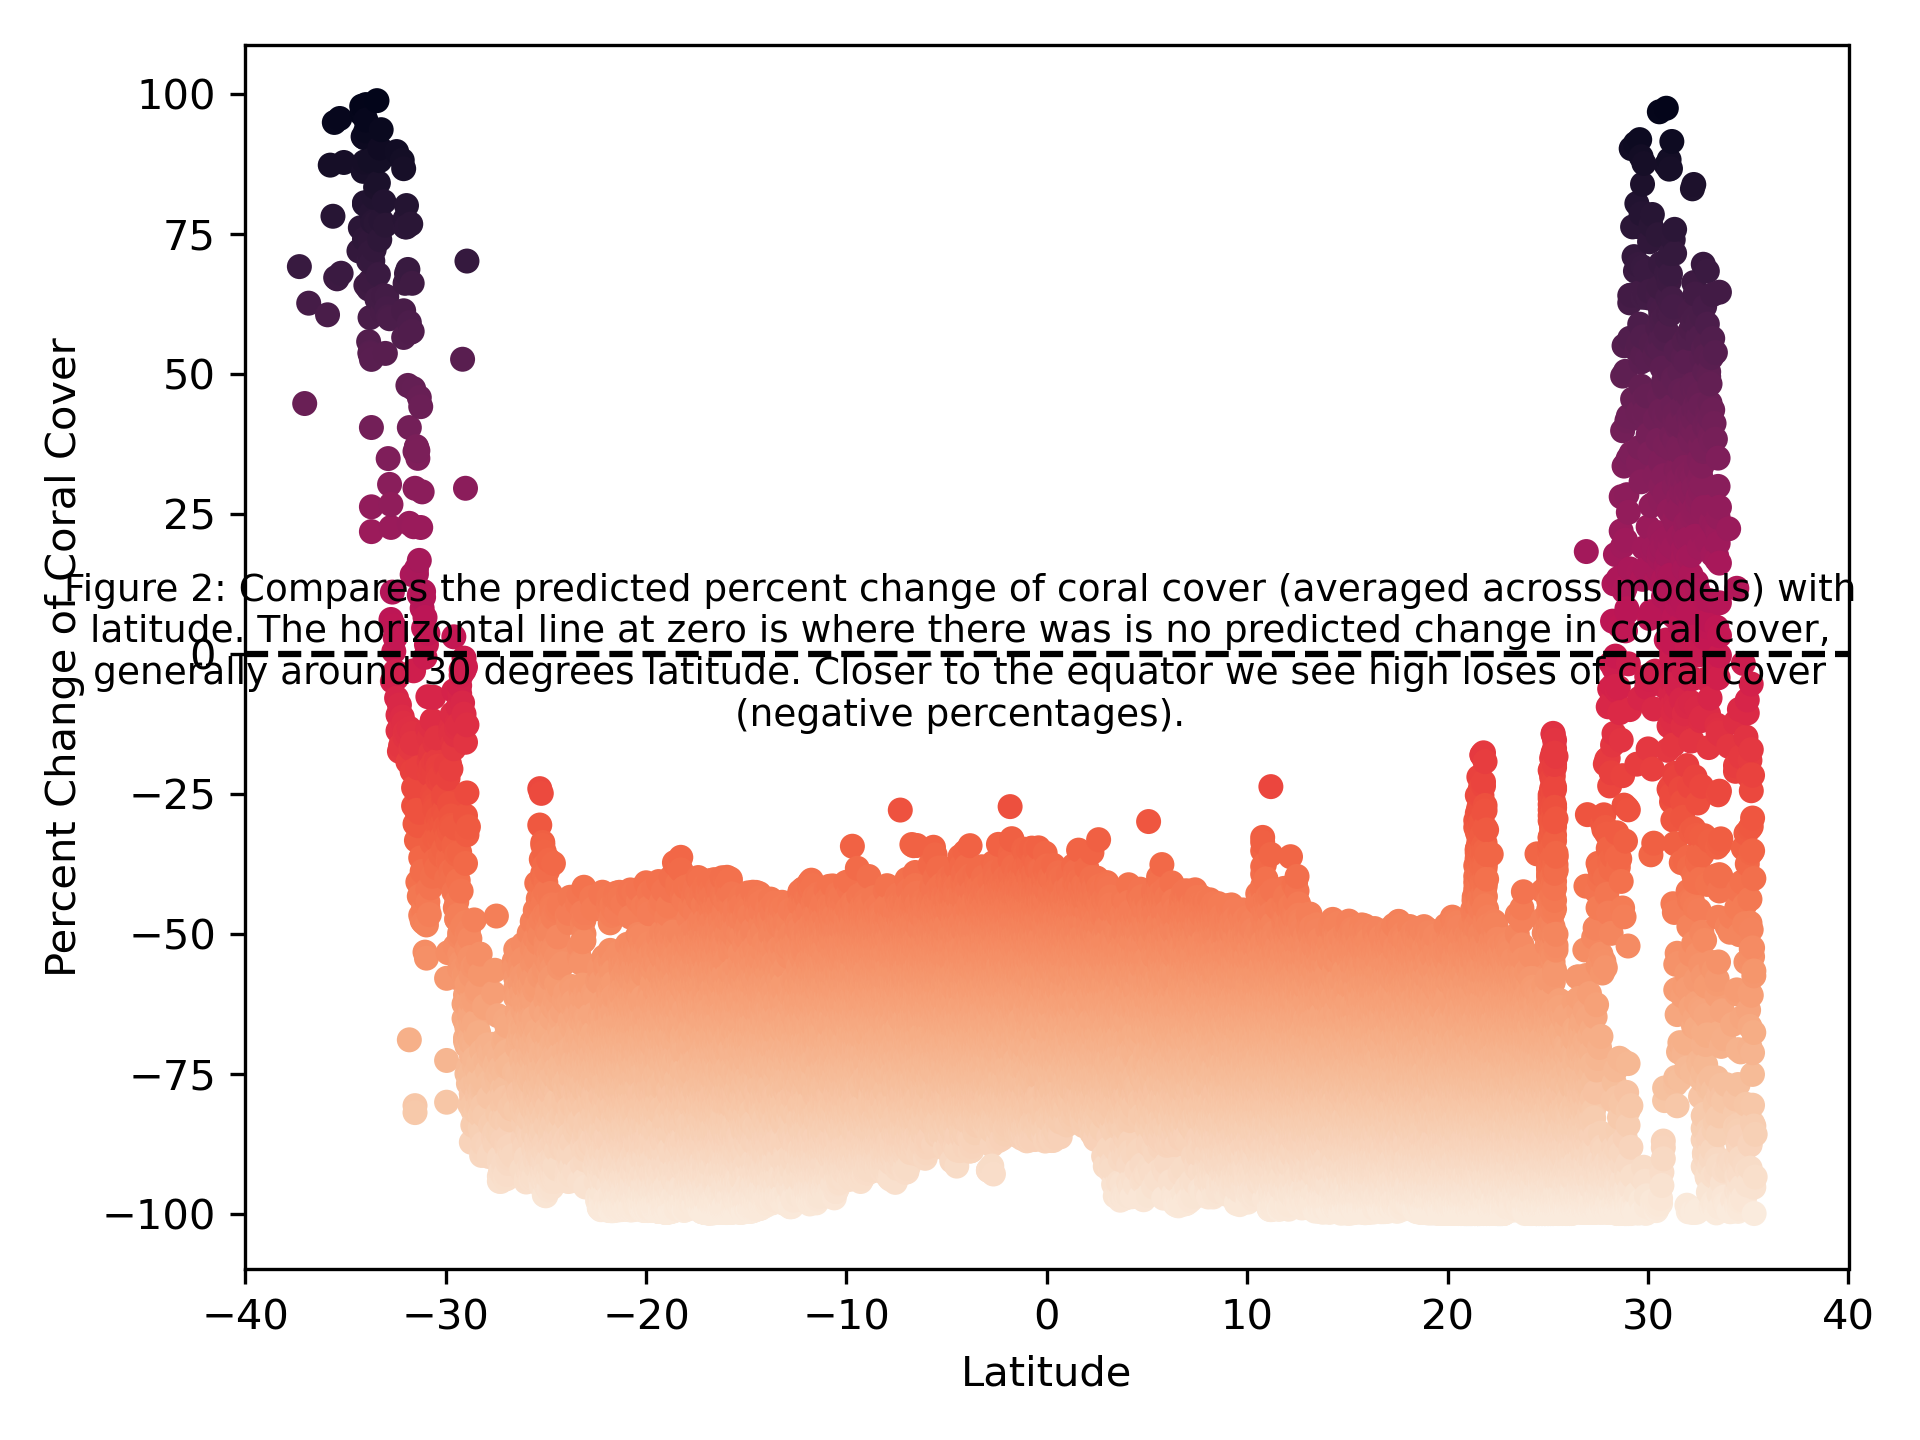
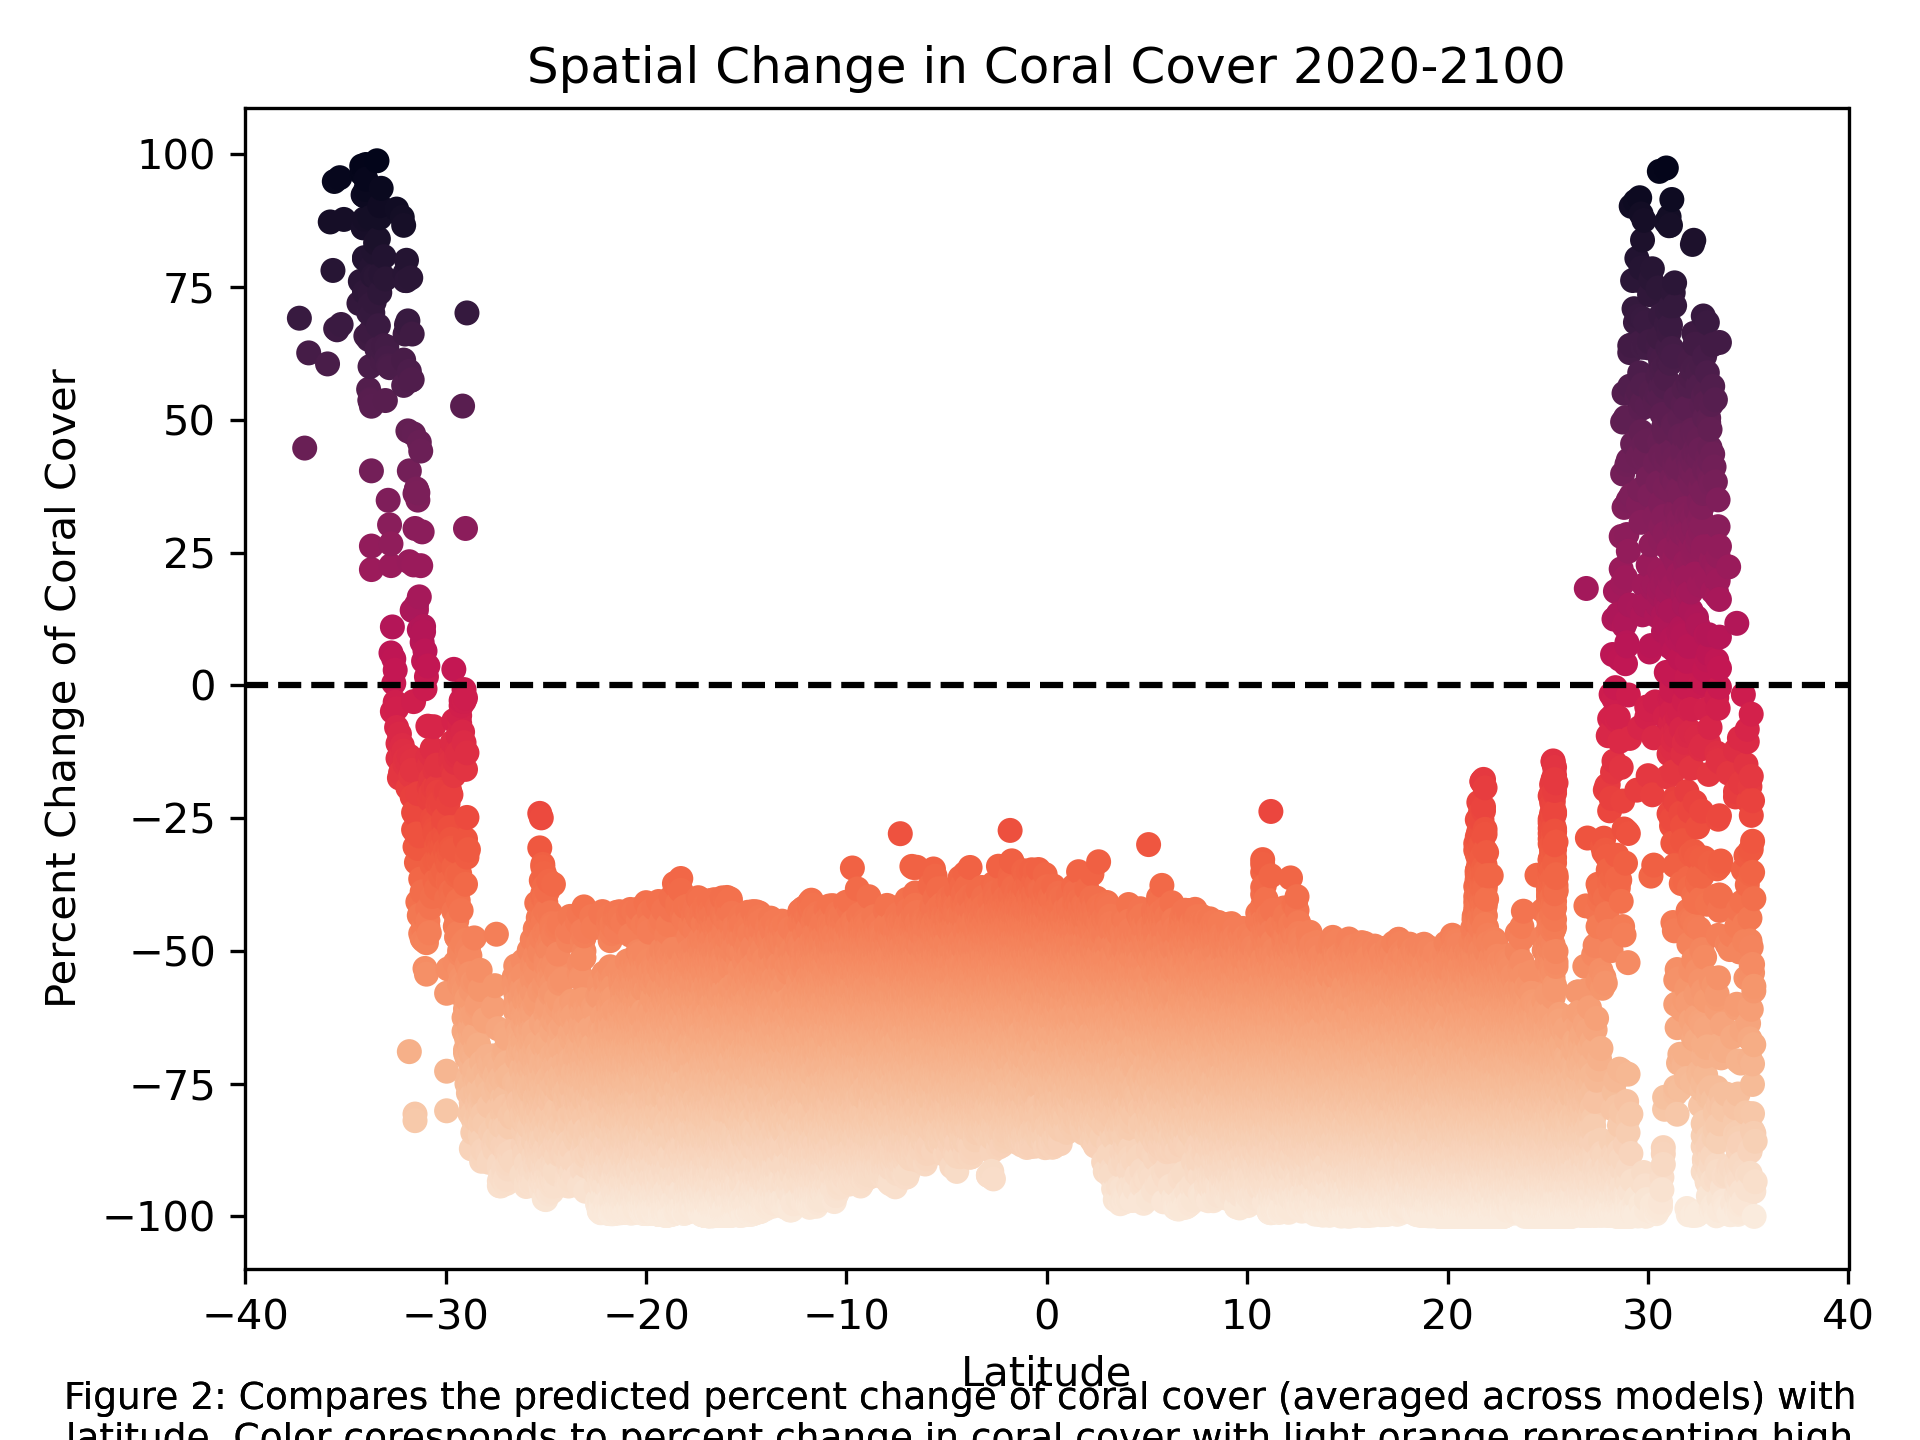
Everything finalized except for captions

diff --git a/Final_format.py b/Final_format.py
@@ -32,28 +32,27 @@ df1 = df1.loc[(df1['coral_change_percent'] >= -100) & (df1['coral_change_percent
 #Check out how the model compare to one another in terms of their 2100 predictors. How do they vary? Is one more intense than another?
 #Make two plots showing relationship between percent change and SST 2100 predictions and pH 2100 predictions
 fig1 = plt.figure()
- #make room for caption
 ax1 = fig1.add_subplot(2, 1, 1)
 ax1 = sns.violinplot(data=df1, x='model', y='SST_2100', 
                         hue='model',legend=False, edgecolor='none')
 plt.xlabel("Model")
 plt.ylabel("Predicted SST (C)")
-#plt.title("Predicted Sea Surface Temperatures and pH in 2100")
+plt.title("Predicted Sea Surface Temperatures and pH in 2100")
 
-ax2 = fig1.add_subplot(2, 1, 2)
+ax2 = fig1.add_subplot(2, 1, 2) #adding second plot with pH
 ax2 = sns.violinplot(data=df1, x='model', y='pH_2100', 
                         hue='model',legend=False, edgecolor='none')
 ax2.set_ylim(7.8,8.1)
-plt.xlabel("Model")
+plt.xlabel("")
 plt.ylabel("Predicted pH")
-
+fig1.text(0.5, -0.03, 'Figure 1: Violin plots of pH and Sea Surface Temperature (SST, C) as predicted by the different models. Colors correspond with model numbers on the x axis for visual clarity.',
+     ha='center', wrap=True, fontsize = 9)
 #based on these violin plots the final 2100 values are all pretty similar. 
     # Must be the way it tracks over the years that makes the models different but we don't have that dat
 #fig1.subplots_adjust(bottom=0.4) #make room for caption
-fig1.text(0.5, -1, 'Figure 1: Violin plots of pH and Sea Surface Temperature (SST, C) as predicted by the different models. Colors correspond with model numbers on the x axis for visual clarity. It appears that all 12 models ended with similar pH and temperatures in 2100. It is likely the difference in the models stems from how they got to these values, rather than the final pH and temperature themselves, but we do not have that detailed data.',
-     ha='center', wrap=True, fontsize = 9)
+
 plt.savefig("SST_pH.png",dpi=300)
-fig1.clear()
+fig1.clear() #wipes plotting area clean for next figure construction
 
 #**************FIX FIGURE CAPTION^^^**********************
 
@@ -90,9 +89,10 @@ ax3.set_xlim(-40,40)
 plt.axhline(y=0, color='black', linestyle='--') #shows zero change in coral cover
 plt.xlabel("Latitude")
 plt.ylabel("Percent Change of Coral Cover")
-#plt.title("Spatial Change in Coral Cover 2020-2100")
-fig2.text(0.5,0.5, 'Figure 2: Compares the predicted percent change of coral cover (averaged across models) with latitude. The horizontal line at zero is where there was is no predicted change in coral cover, generally around 30 degrees latitude. Closer to the equator we see high loses of coral cover (negative percentages).',
+plt.title("Spatial Change in Coral Cover 2020-2100")
+fig2.text(0.5,-0.09, 'Figure 2: Compares the predicted percent change of coral cover (averaged across models) with latitude. Color coresponds to percent change in coral cover with light orange representing high percentage of loss and dark purple for increasing cover. The horizontal line at zero is where there was no predicted change in coral cover, generally around 30 degrees latitude. Closer to the equator we see high loses of coral cover (negative percentages).',
      ha='center', wrap=True, fontsize = 9)
+
 plt.savefig("lat_coral",dpi=300)
 fig2.clear()
 
@@ -126,9 +126,9 @@ gl.xlines = False
 gl.top_labels = False
 gl.ylocator = mticker.FixedLocator([-30, 0, 30])
 gl.ylabel_style = {'size': 10, 'color': 'black'}
-
-fig3.text(0.5,0.5, 'Figure 3: Map depicting what percent change in coral cover is expected between 30 degrees South and North of the equator. Dark purple represents a loss of 100% coral cover. Yellow means a gain in coral cover, while teal shows areas with zero predicted change in cover.',
+fig3.text(0.5,-0.03, 'Figure 3: Map depicting what percent change in coral cover is expected between 30 degrees South and North of the equator. Dark purple represents a loss of 100% coral cover. Yellow means a gain in coral cover, while teal shows areas with zero predicted change in cover.',
      ha='center', wrap=True, fontsize = 9)
+plt.title("Predicted change in global coral cover")
 plt.savefig("map",dpi=300)
 
 # Clear the current figure
